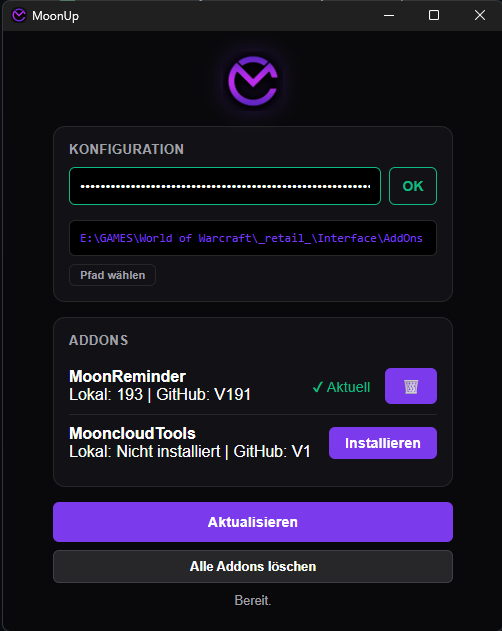
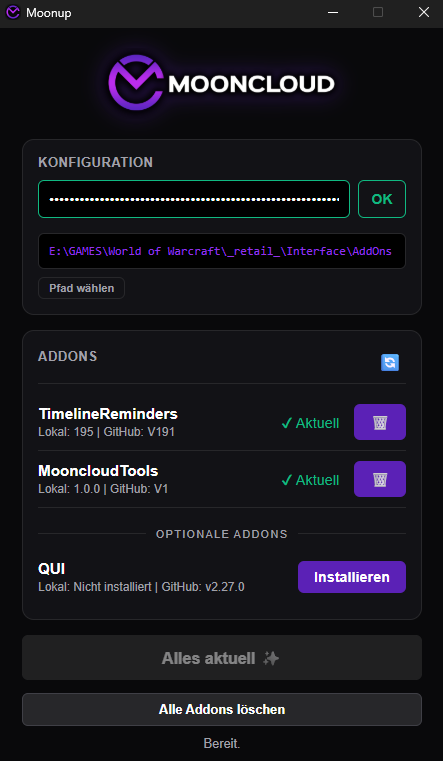
Update Readmet

diff --git a/README.md b/README.md
@@ -1,12 +1,12 @@
 <div align="center">
 
-  <img src="app-icon.png" alt="Moonup Logo" width="120" height="120">
+  <img src="APP_BANNER.png" alt="Moonup Banner" width="100%" style="max-width: 600px;">
 
   # Moonup
   
-  **Der automatische Addon-Updater für Mooncloud**
+  **Der offizielle Addon-Manager für die Mooncloud Community**
 
-  [![Latest Release](https://img.shields.io/github/v/release/Mooncloudgg/MoonUp?label=Version&color=blue)](https://github.com/Mooncloudgg/MoonUp/releases/latest)
+  [![Latest Release](https://img.shields.io/github/v/release/Mooncloudgg/MoonUp?label=Version&color=5b21b6)](https://github.com/Mooncloudgg/MoonUp/releases/latest)
   [![Platform](https://img.shields.io/badge/Platform-Windows%20%7C%20macOS-lightgrey)](https://github.com/Mooncloudgg/MoonUp/releases/latest)
   [![License](https://img.shields.io/badge/License-All%20Rights%20Reserved-red)]()
 
@@ -18,58 +18,69 @@
 
 ---
 
-## Über das Projekt
+## 🚀 Über das Projekt
 
-**Moonup** ist ein kleines, leistungsstarkes Tool, das sicherstellt, dass alle Gildenmitglieder immer die exakt gleichen Versionen unserer wichtigen Addons haben. So ist niemand gezwungen WoWUP zu nutzen und kann seine eigenen Addons mit dem Manager seiner Wahl verwalten. 
+**Moonup** ist ein maßgeschneidertes Tool für unsere Gilde, das sicherstellt, dass alle Mitglieder immer die korrekten Versionen unserer internen Addons nutzen. Es eliminiert Versionskonflikte und macht Updates kinderleicht – unabhängig davon, welchen Addon-Manager (wie WoWUP oder Curse) du sonst verwendest.
 
-* ✅ **Automatische Updates:** Prüft bei jedem Start, ob neue Versionen auf GitHub verfügbar sind.
-* ✅ **Sicherheit:** Funktioniert nur mit gültigem Token.
-* ✅ **Clean:** Installation für Auto-Updates notwendig.
-* ✅ **Cross-Platform:** Läuft auf Windows und macOS.
+### Unterstütze Addons:
+* **TimelineReminders** (Pflicht): Display Raid Assignments & Personal Assignments
+* **MooncloudTools** (Pflicht): Interne Tools für den Raid-Betrieb.
+* **QUI** (Optional): Free QUI Community Version. [**Offizielles Repo von Zol**](https://github.com/zol-wow/QUI)
+
+### Features:
+* ✅ **Automatische Updates:** Erkennt sofort, wenn wir eine neue Version auf GitHub pushen.
+* ✅ **Sicherheit:** Zugriff nur mit gültigem Gilden-Token möglich.
+* ✅ **Optionale Addons:** Wähle selbst, ob du zusätzliche Pakete wie QUI installieren möchtest.
+* ✅ **Cross-Platform:** Läuft nativ auf Windows und macOS (Apple Silicon & Intel).
 
 ![Screenshot der App](screenshot.png)
+
 ---
 
 ## 🛡 Sicherheit & Transparenz
 
-Da Moonup ein privates Community-Projekt ist und keine kostspielige digitale Signatur (Zertifikat) besitzt, stufen manche Antiviren-Programme das Tool vorsichtshalber als "unbekannt" oder "verdächtig" ein.
+Da Moonup ein privates Community-Projekt ist und keine kostspielige digitale Signatur (Code Signing Zertifikat) besitzt, stufen Windows SmartScreen oder Antiviren-Programme das Tool beim ersten Start oft als "unbekannt" ein.
 
-* **Open Source:** Der gesamte Quellcode ist hier auf GitHub für jeden einsehbar.
-* **Neutraler Build:** Die ausführbaren Dateien werden automatisch durch GitHub Actions auf Microsoft-Servern erstellt, nicht auf einem privaten PC.
-* **Viren-Scan:** Ein aktueller Scan bei Jotti's Malware Scan zeigt die Unbedenklichkeit der Datei:
-  👉 [**Hier das Scan-Ergebnis einsehen**](https://virusscan.jotti.org/de-DE/filescanjob/96ivfwtj31)
+* **Open Source:** Der gesamte Quellcode ist hier auf GitHub einsehbar. Nichts ist versteckt.
+* **GitHub Actions:** Die `.exe` und `.dmg` Dateien werden automatisch auf GitHub-Servern gebaut, nicht auf einem privaten PC. Das garantiert, dass der Code im Repo mit dem Programm übereinstimmt.
+* **Viren-Scan:** Die Datei ist sauber. Ein exemplarischer Scan kann hier eingesehen werden:
+  👉 [**Beispiel Scan-Ergebnis (Jotti)**](https://virusscan.jotti.org/de-DE/filescanjob/96ivfwtj31)
+
 ---
 
-## 📥 Installation & Nutzung
+## 📥 Installation
 
 ### Windows 🪟
 
-1.  Lade die Datei **`.exe`** unter [Releases](https://github.com/Mooncloudgg/MoonUp/releases/latest) herunter.
-2.  Starte direkt die `.exe`.
-3.  *Hinweis:* Da wir kein teures Microsoft-Zertifikat haben, erscheint evtl. eine blaue Warnung ("Der Computer wurde geschützt"). Klicke auf **Weitere Informationen** -> **Trotzdem ausführen**.
+1.  Lade die Datei **`Moonup_..._x64-setup.exe`** unter [Releases](https://github.com/Mooncloudgg/MoonUp/releases/latest) herunter.
+2.  Führe die Datei aus.
+3.  **Wichtig:** Da wir kein Microsoft-Zertifikat haben, erscheint ein blaues Fenster ("Der Computer wurde durch Windows geschützt").
+    * Klicke auf **<u>Weitere Informationen</u>**.
+    * Klicke auf den Button **Trotzdem ausführen**.
 
 ### macOS 🍎
 
 1.  Lade die passende Datei unter [Releases](https://github.com/Mooncloudgg/MoonUp/releases/latest) herunter:
-    * **M1/M2/M3 Chips:** `..._aarch64.dmg`
-    * **Intel Chips:** `..._x64.dmg`
-2.  Öffne die `.dmg` Datei und ziehe die App in den Programme-Ordner.
-3.  **Wichtig beim ersten Start:**
+    * **M1/M2/M3 (Apple Silicon):** `Moonup_..._aarch64.dmg` (Empfohlen)
+    * **Intel Macs:** `Moonup_..._x64.dmg`
+2.  Öffne die `.dmg` Datei und ziehe das Moonup-Icon in deinen **Programme**-Ordner.
+3.  **Beim allerersten Start:**
     * Rechtsklick auf die App -> **Öffnen**.
-    * Im Fenster bestätigen mit **Öffnen**.
-    * (Ein Doppelklick reicht beim allerersten Mal nicht, da Apple Entwickler ohne Zertifikat blockiert).
+    * Bestätige den Dialog mit **Öffnen**.
+    * *(Ein einfacher Doppelklick funktioniert beim ersten Mal oft nicht, da Apple Apps ohne Zertifikat blockiert).*
 
 ---
 
 ## 🛠 Einrichtung
 
 1.  Starte Moonup.
-2.  Gib deinen **Token** ein (den du im Discord findest).
-3.  Wähle deinen **WoW `_Addons_` Ordner** aus.
-4.  Klicke auf **Aktualisieren** oder **Installieren**.
+2.  Gib deinen **GitHub Token** ein (diesen findest du im angepinnten Discord-Channel).
+3.  Klicke auf "Prüfen".
+4.  Wähle deinen **WoW `_Addons_` Ordner** aus (z.B. `C:\World of Warcraft\_retail_\Interface\AddOns`).
+5.  Klicke bei den gewünschten Addons auf **Installieren** oder nutze **Alle aktualisieren**.
 
 ---
 
 <div align="center">
-  <small>Developed by Berry & Martin</small>
+  <small>Developed by Berry & Martin for Mooncloud</small>
 </div>
